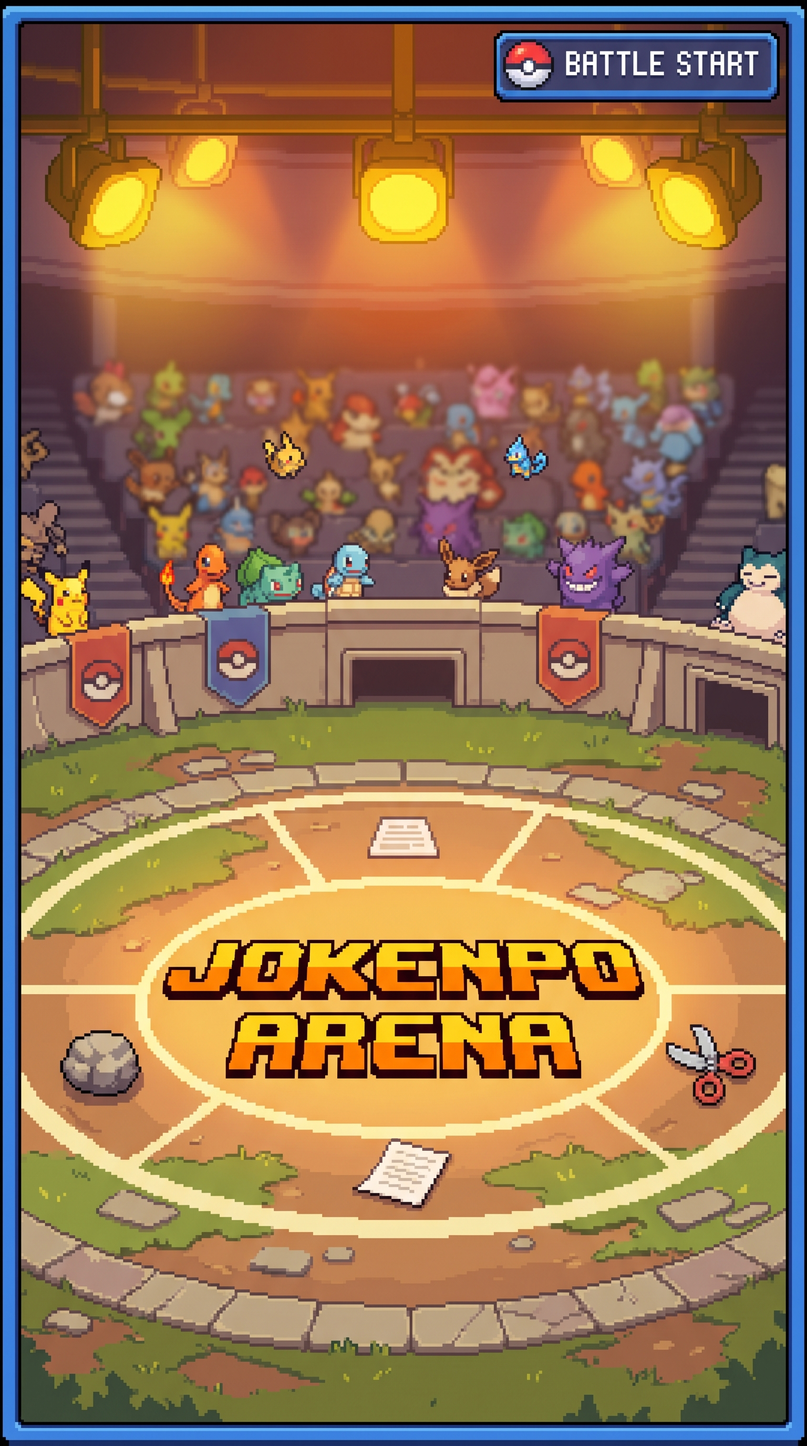
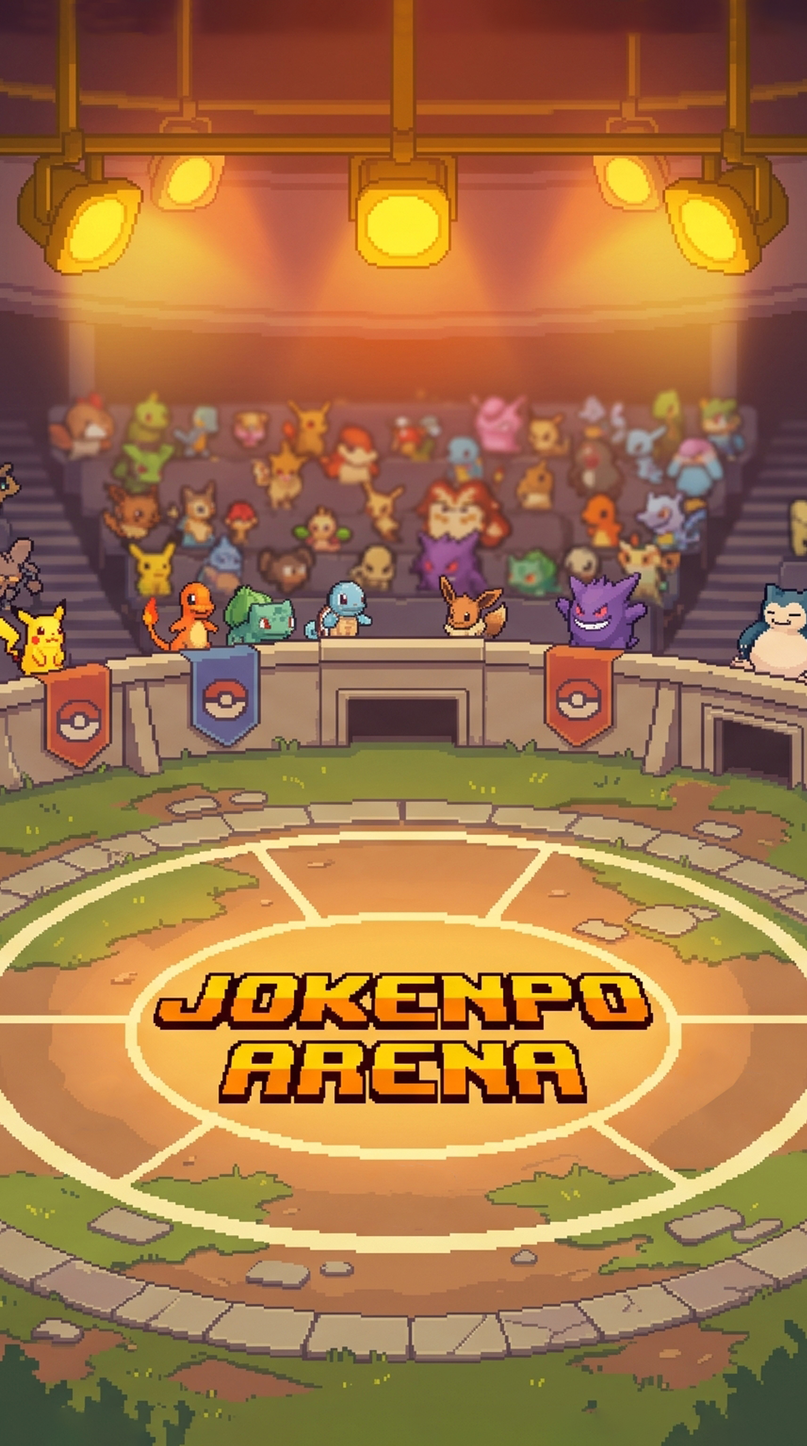
atualizações background, reponsividade e botões

diff --git a/script.js b/script.js
@@ -12,13 +12,13 @@ const btnClose = document.querySelector('#modal-close');
 let humanScoreNumber = 0;
 let machineScoreNumber = 0;
 
-// Listas de vários Pokémon para sortear (você pode adicionar mais nomes se quiser!)
-const pokemonsFogo = ['charmander', 'vulpix', 'growlithe', 'ponyta', 'magmar', 'flareon', 'cyndaquil', 'houndour', 'torchic', 'chimchar', 'tepig', 'fennekin', 'litten'];
-const pokemonsAgua = ['squirtle', 'psyduck', 'poliwag', 'tentacool', 'slowpoke', 'seel', 'shellder', 'krabby', 'horsea', 'magikarp', 'vaporeon', 'totodile', 'marill', 'mudkip', 'piplup'];
-const pokemonsPlanta = ['bulbasaur', 'oddish', 'bellsprout', 'exeggcute', 'tangela', 'chikorita', 'hoppip', 'sunkern', 'treecko', 'seedot', 'shroomish', 'roselia', 'turtwig', 'snivy', 'chespin'];
+// Listas de vários Pokémon para sortear
+const pokemonsFire = ['charmander', 'vulpix', 'growlithe', 'ponyta', 'magmar', 'flareon', 'cyndaquil', 'houndour', 'torchic', 'chimchar', 'tepig', 'fennekin', 'litten'];
+const pokemonsWater = ['squirtle', 'psyduck', 'poliwag', 'tentacool', 'slowpoke', 'seel', 'shellder', 'krabby', 'horsea', 'magikarp', 'vaporeon', 'totodile', 'marill', 'mudkip', 'piplup'];
+const pokemonsPlant = ['bulbasaur', 'oddish', 'bellsprout', 'exeggcute', 'tangela', 'chikorita', 'hoppip', 'sunkern', 'treecko', 'seedot', 'shroomish', 'roselia', 'turtwig', 'snivy', 'chespin'];
 
 // Objeto para armazenar o Pokémon sorteado da rodada atual
-const pokemonData = {
+const pokemonDate = {
     fogo: { nome: '', sprite: '' },
     agua: { nome: '', sprite: '' },
     planta: { nome: '', sprite: '' }
@@ -33,27 +33,27 @@ const sortearPokemon = (lista) => lista[Math.floor(Math.random() * lista.length)
 // Função assíncrona para sortear e buscar as imagens na API
 async function loadPokemonSprites() {
     // Sorteia quem serão os representantes de Fogo, Água e Planta desta vez
-    pokemonData.fogo.nome = sortearPokemon(pokemonsFogo);
-    pokemonData.agua.nome = sortearPokemon(pokemonsAgua);
-    pokemonData.planta.nome = sortearPokemon(pokemonsPlanta);
+    pokemonDate.fogo.nome = sortearPokemon(pokemonsFire);
+    pokemonDate.agua.nome = sortearPokemon(pokemonsWater);
+    pokemonDate.planta.nome = sortearPokemon(pokemonsPlant);
 
-    for (const tipo in pokemonData) {
+    for (const tipo in pokemonDate) {
         try {
-            const response = await fetch(`https://pokeapi.co/api/v2/pokemon/${pokemonData[tipo].nome}`);
+            const response = await fetch(`https://pokeapi.co/api/v2/pokemon/${pokemonDate[tipo].nome}`);
             const data = await response.json();
             
             // Pega a imagem (sprite) e guarda
             const imageUrl = data.sprites.front_default;
-            pokemonData[tipo].sprite = imageUrl;
+            pokemonDate[tipo].sprite = imageUrl;
 
             // Altera a imagem do botão correspondente na tela
             const imgBtn = document.getElementById(`img-btn-${tipo}`);
             if(imgBtn) {
                 imgBtn.src = imageUrl;
-                imgBtn.alt = capitalizarNome(pokemonData[tipo].nome);
+                imgBtn.alt = capitalizarNome(pokemonDate[tipo].nome);
             }
         } catch (error) {
-            console.error(`Erro ao buscar o Pokémon ${pokemonData[tipo].nome}:`, error);
+            console.error(`Erro ao buscar o Pokémon ${pokemonDate[tipo].nome}:`, error);
         }
     }
 }
@@ -71,8 +71,8 @@ const closeModal = () => {
 btnClose.addEventListener('click', closeModal);
 
 const openModal = (human, machine, winner) => {
-    imgHuman.src = pokemonData[human].sprite;
-    imgMachine.src = pokemonData[machine].sprite;
+    imgHuman.src = pokemonDate[human].sprite;
+    imgMachine.src = pokemonDate[machine].sprite;
 
     if (winner === 'empate') {
         modalResult.textContent = 'Deu empate!';
@@ -96,8 +96,8 @@ const playMachine = () => {
 }
 
 const playTheGame = (human, machine) => {
-    const nomeHumano = capitalizarNome(pokemonData[human].nome);
-    const nomeMaquina = capitalizarNome(pokemonData[machine].nome);
+    const nomeHumano = capitalizarNome(pokemonDate[human].nome);
+    const nomeMaquina = capitalizarNome(pokemonDate[machine].nome);
 
     if (human === machine) {
         openModal(human, machine, 'empate');

diff --git a/index.html b/index.html
@@ -1,5 +1,6 @@
 <!DOCTYPE html>
 <html lang="pt-br">
+
 <head>
     <meta charset="UTF-8">
     <meta name="viewport" content="width=device-width, initial-scale=1.0">
@@ -7,6 +8,7 @@
     <link rel="stylesheet" href="style.css">
     <link rel="icon" href="./assets/img/favicon.svg" type="image/x-icon">
 </head>
+
 <body>
     <div class="modal-overlay" id="modal">
         <div class="modal-box">
@@ -28,21 +30,22 @@
 
     <main class="container">
         <h1>Pokémon Jokenpô</h1>
-        
-        <button onclick="playHuman('fogo')" class="icones-button" id="fogo">
-            <img id="img-btn-fogo" src="" class="icones-img" alt="Fogo (Charmander)">
-        </button>
-        
-        <button onclick="playHuman('agua')" class="icones-button" id="agua">
-            <img id="img-btn-agua" src="" class="icones-img" alt="Água (Squirtle)">
-        </button>
-        
-        <button onclick="playHuman('planta')" class="icones-button" id="planta">
-            <img id="img-btn-planta" src="" class="icones-img" alt="Planta (Bulbasaur)">
-        </button>
+        <div class="select-button">
 
+            <button onclick="playHuman('fogo')" class="icones-button fire" id="fogo">
+                <img id="img-btn-fogo" src="" class="icones-img" alt="Fogo (Charmander)">
+            </button>
+
+            <button onclick="playHuman('agua')" class="icones-button water" id="agua">
+                <img id="img-btn-agua" src="" class="icones-img" alt="Água (Squirtle)">
+            </button>
+
+            <button onclick="playHuman('planta')" class="icones-button plant" id="planta">
+                <img id="img-btn-planta" src="" class="icones-img" alt="Planta (Bulbasaur)">
+            </button>
+        </div>
         <p class="result"></p>
-        
+
         <div class="conteiner-score">
             <p class="your-score">Sua Pontuação:</p><span id="youcore" class="score">0</span>
         </div>
@@ -53,4 +56,5 @@
 
     <script src="script.js"></script>
 </body>
+
 </html>

diff --git a/style.css b/style.css
@@ -1,8 +1,9 @@
+@import url('https://fonts.googleapis.com/css2?family=Pixelify+Sans:wght@400..700&display=swap');
 * {
     margin: 0;
     padding: 0;
     box-sizing: border-box;
-    font-family: 'Segoe UI', Tahoma, Geneva, Verdana, sans-serif;
+    font-family: "Pixelify Sans", sans-serif;
 }
 
 body {
@@ -33,14 +34,34 @@ h1 {
     margin: 20px;
 }
 
+.select-button {
+    display: flex;
+    justify-content: space-around;
+    width: 100%; 
+    gap: 8px; 
+}
+
 .icones-button {
-    width: 100px;
+    width: clamp(60px, 28%, 100px);
+    flex-shrink: 1;
     border: none;
     border-radius: 10px;
     margin-bottom: 20px;
     cursor: pointer;
     box-shadow: inset 0 0 10px rgb(0 0 0 / 0.5);
     transition: transform 0.3s ease-in-out, box-shadow 0.3s ease-in-out;
+}
+
+.fire {
+    background-color: rgba(255, 157, 0, 0.8);
+}
+
+.water {
+    background-color: rgb(0, 157, 255, 0.8);
+}
+
+.plant {
+    background-color: rgb(0, 255, 157, 0.8);
 }
 
 .icones-button:hover {
@@ -54,7 +75,7 @@ h1 {
 }
 
 .icones-img {
-    width: 100px;
+    width: 100%; 
     padding: 10px;
 }
 
@@ -189,5 +210,10 @@ h1 {
         background-size: cover;
         background-repeat: no-repeat;
         background-position: center;
+    }
+
+    .container {
+        width: 85%;
+        height: auto;
     }
 }
